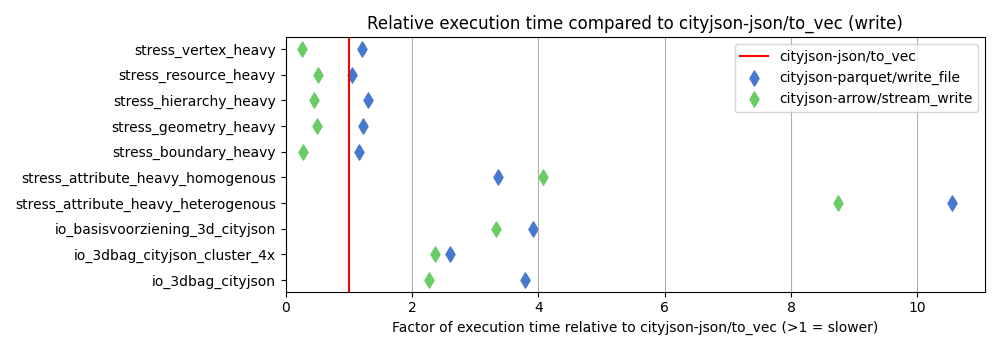
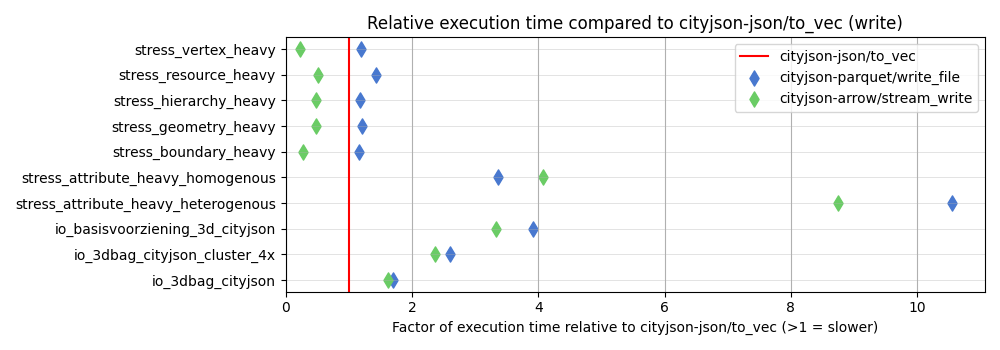
Add grid lines to bench plots

diff --git a/crates/cityjson-parquet/resources/compare_benchmarks/compare_benchmarks.py b/crates/cityjson-parquet/resources/compare_benchmarks/compare_benchmarks.py
@@ -195,6 +195,7 @@ def plot_suite(suite: str, results: dict[str, dict[str, float]]) -> None:
     ax.set_yticks(y_positions, order)
     ax.set_xlim(left=0.0)
     ax.grid(visible=True, which="major", axis="x")
+    ax.grid(visible=True, which="major", axis="y", linewidth=0.5, alpha=0.5)
     ax.set_title(f"Relative execution time compared to {baseline_label} ({suite})")
     ax.set_xlabel(f"Factor of execution time relative to {baseline_label} (>1 = slower)")
     plt.tight_layout()

diff --git a/crates/cityjson-parquet/README.md b/crates/cityjson-parquet/README.md
@@ -45,21 +45,21 @@ Full results and plots: `benches/results/`.
 
 | Case | cityjson-parquet | `cityjson-arrow` | `cityjson-json` | Factor |
 | --- | --- | --- | --- | --- |
-| `io_basisvoorziening_3d_cityjson` | 601.8 MiB/s | 611.9 MiB/s | 282.7 MiB/s | 2.13x |
-| `io_3dbag_cityjson_cluster_4x` | 548.0 MiB/s | 530.2 MiB/s | 183.2 MiB/s | 2.99x |
-| `io_3dbag_cityjson` | 596.7 MiB/s | 598.3 MiB/s | 190.6 MiB/s | 3.13x |
+| `io_basisvoorziening_3d_cityjson` | 601.8 MiB/s | 611.9 MiB/s | 282.7 MiB/s | 2.10x |
+| `io_3dbag_cityjson_cluster_4x` | 548.0 MiB/s | 530.2 MiB/s | 183.2 MiB/s | 2.96x |
+| `io_3dbag_cityjson` | 596.7 MiB/s | 598.3 MiB/s | 190.6 MiB/s | 3.17x |
 
 **Stress cases**
 
 | Case | cityjson-parquet | `cityjson-arrow` | `cityjson-json` | Factor |
 | --- | --- | --- | --- | --- |
-| `stress_attribute_heavy_heterogenous` | 252.3 MiB/s | 243.7 MiB/s | 151.8 MiB/s | 1.66x |
-| `stress_attribute_heavy_homogenous` | 179.9 MiB/s | 174.4 MiB/s | 162.3 MiB/s | 1.11x |
-| `stress_boundary_heavy` | 3065.3 MiB/s | 3388.4 MiB/s | 317.7 MiB/s | 9.65x |
-| `stress_geometry_heavy` | 1517.5 MiB/s | 1522.6 MiB/s | 271.8 MiB/s | 5.58x |
-| `stress_hierarchy_heavy` | 1099.5 MiB/s | 1110.3 MiB/s | 188.9 MiB/s | 5.82x |
-| `stress_resource_heavy` | 763.3 MiB/s | 769.3 MiB/s | 154.5 MiB/s | 4.94x |
-| `stress_vertex_heavy` | 4374.5 MiB/s | 4435.5 MiB/s | 357.6 MiB/s | 12.23x |
+| `stress_attribute_heavy_heterogenous` | 252.3 MiB/s | 243.7 MiB/s | 151.8 MiB/s | 0.94x |
+| `stress_attribute_heavy_homogenous` | 179.9 MiB/s | 174.4 MiB/s | 162.3 MiB/s | 1.60x |
+| `stress_boundary_heavy` | 3065.3 MiB/s | 3388.4 MiB/s | 317.7 MiB/s | 6.01x |
+| `stress_geometry_heavy` | 1517.5 MiB/s | 1522.6 MiB/s | 271.8 MiB/s | 3.66x |
+| `stress_hierarchy_heavy` | 1099.5 MiB/s | 1110.3 MiB/s | 188.9 MiB/s | 5.00x |
+| `stress_resource_heavy` | 763.3 MiB/s | 769.3 MiB/s | 154.5 MiB/s | 3.77x |
+| `stress_vertex_heavy` | 4374.5 MiB/s | 4435.5 MiB/s | 357.6 MiB/s | 7.37x |
 <!-- benchmark-summary:end -->
 
 ## Verification

diff --git a/crates/cityjson-parquet/benches/results/benchmark_summary.md b/crates/cityjson-parquet/benches/results/benchmark_summary.md
@@ -21,13 +21,13 @@ Generated from Criterion results.
 
 | Case | Description | cityjson-parquet/write_file | cityjson-arrow/stream_write | cityjson-json/to_vec | Factor |
 | --- | --- | --- | --- | --- | --- |
-| io_3dbag_cityjson |  | 51.249 ms (110.3 MiB/s) | 30.632 ms (184.0 MiB/s) | 13.536 ms (416.3 MiB/s) | 3.79x |
+| io_3dbag_cityjson |  | 22.927 ms (246.5 MiB/s) | 22.026 ms (255.9 MiB/s) | 13.536 ms (416.3 MiB/s) | 1.69x |
 | io_3dbag_cityjson_cluster_4x |  | 128.362 ms (157.9 MiB/s) | 116.513 ms (173.8 MiB/s) | 49.370 ms (395.6 MiB/s) | 2.60x |
 | io_basisvoorziening_3d_cityjson |  | 1.043 s (165.0 MiB/s) | 885.699 ms (194.3 MiB/s) | 266.128 ms (633.7 MiB/s) | 3.92x |
 | stress_attribute_heavy_heterogenous |  | 26.649 ms (90.0 MiB/s) | 22.076 ms (107.3 MiB/s) | 2.525 ms (535.9 MiB/s) | 10.56x |
 | stress_attribute_heavy_homogenous |  | 6.323 ms (112.2 MiB/s) | 7.672 ms (90.9 MiB/s) | 1.885 ms (544.0 MiB/s) | 3.35x |
 | stress_boundary_heavy |  | 3.372 ms (654.8 MiB/s) | 803.390 us (2742.9 MiB/s) | 2.909 ms (472.7 MiB/s) | 1.16x |
-| stress_geometry_heavy |  | 2.558 ms (620.2 MiB/s) | 1.024 ms (1544.9 MiB/s) | 2.094 ms (495.9 MiB/s) | 1.22x |
-| stress_hierarchy_heavy |  | 3.379 ms (431.0 MiB/s) | 1.173 ms (1236.1 MiB/s) | 2.593 ms (482.4 MiB/s) | 1.30x |
-| stress_resource_heavy |  | 2.113 ms (582.0 MiB/s) | 1.035 ms (1179.7 MiB/s) | 2.008 ms (467.0 MiB/s) | 1.05x |
-| stress_vertex_heavy |  | 12.022 ms (572.2 MiB/s) | 2.500 ms (2749.4 MiB/s) | 9.900 ms (418.3 MiB/s) | 1.21x |
+| stress_geometry_heavy |  | 2.558 ms (620.2 MiB/s) | 1.024 ms (1544.9 MiB/s) | 2.116 ms (490.7 MiB/s) | 1.21x |
+| stress_hierarchy_heavy |  | 2.897 ms (502.8 MiB/s) | 1.159 ms (1251.4 MiB/s) | 2.448 ms (511.1 MiB/s) | 1.18x |
+| stress_resource_heavy |  | 2.737 ms (449.3 MiB/s) | 976.575 us (1249.7 MiB/s) | 1.908 ms (491.5 MiB/s) | 1.43x |
+| stress_vertex_heavy |  | 10.865 ms (633.2 MiB/s) | 2.080 ms (3304.7 MiB/s) | 9.094 ms (455.4 MiB/s) | 1.19x |

diff --git a/crates/cityjson-parquet/benches/results/v0.5.2-new-cases/benchmark_summary.md b/crates/cityjson-parquet/benches/results/v0.5.2-new-cases/benchmark_summary.md
@@ -21,13 +21,13 @@ Generated from Criterion results.
 
 | Case | Description | cityjson-parquet/write_file | cityjson-arrow/stream_write | cityjson-json/to_vec | Factor |
 | --- | --- | --- | --- | --- | --- |
-| io_3dbag_cityjson |  | 51.249 ms (110.3 MiB/s) | 30.632 ms (184.0 MiB/s) | 13.536 ms (416.3 MiB/s) | 3.79x |
+| io_3dbag_cityjson |  | 22.927 ms (246.5 MiB/s) | 22.026 ms (255.9 MiB/s) | 13.536 ms (416.3 MiB/s) | 1.69x |
 | io_3dbag_cityjson_cluster_4x |  | 128.362 ms (157.9 MiB/s) | 116.513 ms (173.8 MiB/s) | 49.370 ms (395.6 MiB/s) | 2.60x |
 | io_basisvoorziening_3d_cityjson |  | 1.043 s (165.0 MiB/s) | 885.699 ms (194.3 MiB/s) | 266.128 ms (633.7 MiB/s) | 3.92x |
 | stress_attribute_heavy_heterogenous |  | 26.649 ms (90.0 MiB/s) | 22.076 ms (107.3 MiB/s) | 2.525 ms (535.9 MiB/s) | 10.56x |
 | stress_attribute_heavy_homogenous |  | 6.323 ms (112.2 MiB/s) | 7.672 ms (90.9 MiB/s) | 1.885 ms (544.0 MiB/s) | 3.35x |
 | stress_boundary_heavy |  | 3.372 ms (654.8 MiB/s) | 803.390 us (2742.9 MiB/s) | 2.909 ms (472.7 MiB/s) | 1.16x |
-| stress_geometry_heavy |  | 2.558 ms (620.2 MiB/s) | 1.024 ms (1544.9 MiB/s) | 2.094 ms (495.9 MiB/s) | 1.22x |
-| stress_hierarchy_heavy |  | 3.379 ms (431.0 MiB/s) | 1.173 ms (1236.1 MiB/s) | 2.593 ms (482.4 MiB/s) | 1.30x |
-| stress_resource_heavy |  | 2.113 ms (582.0 MiB/s) | 1.035 ms (1179.7 MiB/s) | 2.008 ms (467.0 MiB/s) | 1.05x |
-| stress_vertex_heavy |  | 12.022 ms (572.2 MiB/s) | 2.500 ms (2749.4 MiB/s) | 9.900 ms (418.3 MiB/s) | 1.21x |
+| stress_geometry_heavy |  | 2.558 ms (620.2 MiB/s) | 1.024 ms (1544.9 MiB/s) | 2.116 ms (490.7 MiB/s) | 1.21x |
+| stress_hierarchy_heavy |  | 2.897 ms (502.8 MiB/s) | 1.159 ms (1251.4 MiB/s) | 2.448 ms (511.1 MiB/s) | 1.18x |
+| stress_resource_heavy |  | 2.737 ms (449.3 MiB/s) | 976.575 us (1249.7 MiB/s) | 1.908 ms (491.5 MiB/s) | 1.43x |
+| stress_vertex_heavy |  | 10.865 ms (633.2 MiB/s) | 2.080 ms (3304.7 MiB/s) | 9.094 ms (455.4 MiB/s) | 1.19x |
